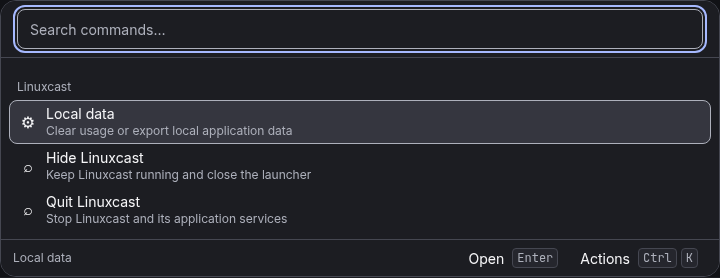
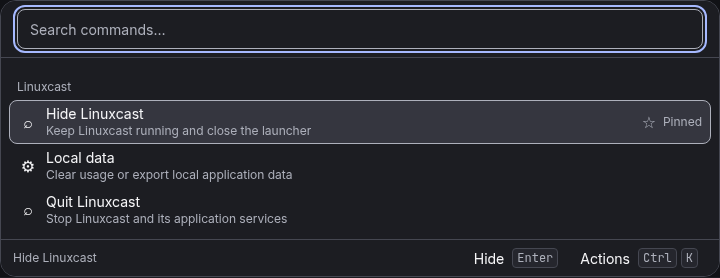
Verify durable launcher pin controls in the production application

diff --git a/apps/desktop/tests/shell.integration.test.ts b/apps/desktop/tests/shell.integration.test.ts
@@ -58,6 +58,18 @@ it('runs the bundled isolated shell, rejects renderer privileges and preserves r
   await expect.poll(()=>page.getByRole('heading',{name:'No matching results'}).isVisible()).toBe(true);
   await query.fill('');
   await expect.poll(()=>page.getByRole('option').count()).toBe(3);
+  // Pinning is an explicit metadata edit, not a command execution.
+  await query.press('ArrowDown');
+  await expect.poll(()=>page.getByRole('option',{selected:true}).textContent()).toContain('Hide Linuxcast');
+  await query.press('Control+k');
+  await page.getByRole('searchbox',{name:'Find an action'}).fill('Pin command');
+  await page.getByRole('searchbox',{name:'Find an action'}).press('Enter');
+  await expect.poll(()=>page.getByRole('option').first().textContent()).toContain('Hide Linuxcast');
+  await expect.poll(()=>page.getByRole('option',{selected:true}).textContent()).toContain('Hide Linuxcast');
+  await expect.poll(()=>page.evaluate(async()=>{
+    const reply=await (window as unknown as {linuxcast:DesktopShellApi}).linuxcast.getLauncherCommands();
+    return reply.ok?reply.value.commands.find(command=>command.id==='linuxcast:hide')?.usage:null;
+  })).toMatchObject({pinned:true,useCount:0,lastUsedAt:null});
   expect(await app.evaluate(({ app }) => app.getPath('userData'))).toBe(profile);
   expect(await page.evaluate(() => {
     const windowApi = window as unknown as { require?: unknown; process?: unknown; linuxcast?: DesktopShellApi };
@@ -112,12 +124,14 @@ it('runs the bundled isolated shell, rejects renderer privileges and preserves r
   expect(before).toMatchObject({encrypted:false,data:{category:'command-usage'}});
   expect(before.data.records).toContainEqual(expect.objectContaining({commandId:'builtin.public-fixture',useCount:1}));
   expect(before.data.records).toContainEqual(expect.objectContaining({commandId:'linuxcast:open-local-data',useCount:1}));
+  expect(before.data.records).toContainEqual(expect.objectContaining({commandId:'linuxcast:hide',pinned:true,useCount:0,lastUsedAt:null}));
   await app.evaluate(({dialog})=>{dialog.showMessageBox=async()=>({response:1,checkboxChecked:false});});
   await data.getByRole('button',{name:'Clear command usage'}).click();await expect.poll(()=>data.getByRole('status').textContent()).toBe('Data cleared.');
   const afterFile=join(temporary,'usage-after.json');await app.evaluate(({dialog},file)=>{dialog.showSaveDialog=async()=>({canceled:false,filePath:file});},afterFile);
   await data.getByRole('button',{name:'Export command usage'}).click();await expect.poll(()=>data.getByRole('status').textContent()).toBe('Export saved.');
   expect(JSON.parse(await readFile(afterFile,'utf8')).data.records).toContainEqual(expect.objectContaining({commandId:'builtin.public-fixture',useCount:0,lastUsedAt:null}));
   await data.getByRole('button',{name:'Export command usage'}).click();await expect.poll(()=>data.getByRole('status').textContent()).toBe('The data action could not be completed. Check the category before trying again.');
+  expect(JSON.parse(await readFile(afterFile,'utf8')).data.records).toContainEqual(expect.objectContaining({commandId:'linuxcast:hide',pinned:true,useCount:0,lastUsedAt:null}));
   expect(JSON.parse(await readFile(afterFile,'utf8')).data.records.every((record:{useCount:number})=>record.useCount===0)).toBe(true);
   await data.getByRole('button',{name:'Close settings'}).click();await expect.poll(()=>data.isClosed()).toBe(true);
   expect(await app.evaluate(({ app }) => app.getAppMetrics().filter(metric => metric.name === 'Linuxcast storage').length)).toBe(1);
@@ -202,4 +216,30 @@ it('runs the bundled isolated shell, rejects renderer privileges and preserves r
   await page.keyboard.press('Enter');
   expect(await exited).toBe(0);
   application = undefined;
+  // Relaunch the same real private profile: pins must be durable, not renderer state.
+  application=await electron.launch({executablePath:executable,args:[wrapper,'--show'],chromiumSandbox:true,env,timeout:20000});
+  const restarted=application,reopened=await restarted.firstWindow();await reopened.waitForURL(appUrl);
+  const reopenedQuery=reopened.getByRole('searchbox',{name:'Search commands',exact:true});
+  await reopenedQuery.waitFor();
+  await expect.poll(()=>reopened.getByRole('option').first().textContent()).toContain('Hide Linuxcast');
+  const savedUsage=await reopened.evaluate(async()=>{
+    const reply=await (window as unknown as {linuxcast:DesktopShellApi}).linuxcast.getLauncherCommands();
+    return reply.ok?reply.value.commands.find(command=>command.id==='linuxcast:hide')?.usage:null;
+  });
+  expect(savedUsage).toMatchObject({pinned:true,useCount:1});
+  await reopenedQuery.press('Control+k');
+  await reopened.getByRole('searchbox',{name:'Find an action'}).fill('Unpin command');
+  await reopened.getByRole('searchbox',{name:'Find an action'}).press('Enter');
+  await expect.poll(()=>reopened.evaluate(async()=>{
+    const reply=await (window as unknown as {linuxcast:DesktopShellApi}).linuxcast.getLauncherCommands();
+    return reply.ok?reply.value.commands.find(command=>command.id==='linuxcast:hide')?.usage:null;
+  })).toMatchObject({pinned:false,useCount:1});
+  await reopenedQuery.fill('quit');
+  await expect.poll(()=>reopened.getByRole('option',{selected:true}).textContent()).toContain('Quit Linuxcast');
+  const stopped=new Promise<number|null>(resolve=>restarted.process().once('exit',resolve));
+  await reopenedQuery.press('Enter',{noWaitAfter:true});expect(await stopped).toBe(0);application=undefined;
+  const persisted=await StorageOwner.open({dataDirectory:join(temporary,'data/linuxcast'),applicationBuild:'synthetic-pin-reopen'});
+  try {
+    expect(persisted.request({schemaVersion:1,requestId:randomUUID(),method:'commands.getUsage',params:{commandId:'linuxcast:hide'}}).result).toMatchObject({pinned:false,useCount:1});
+  } finally {await persisted.close();}
 }, 60000);

diff --git a/packages/storage/tests/command-pins.integration.test.ts b/packages/storage/tests/command-pins.integration.test.ts
@@ -4,6 +4,7 @@ import { tmpdir } from 'node:os';
 import { join } from 'node:path';
 import { randomUUID } from 'node:crypto';
 import Database from 'better-sqlite3';
+import { createStorageClient } from '../src/client.ts';
 import { StorageOwner } from '../src/owner.ts';
 const directories:string[]=[], owners:StorageOwner[]=[];
 afterEach(async()=>{for(const owner of owners.splice(0))await owner.close();for(const directory of directories.splice(0))await rm(directory,{recursive:true,force:true});});
@@ -39,4 +40,14 @@ describe('L1-01 atomic command pin persistence',()=>{
     for(const params of [{commandId:'linuxcast:hide',pinned:1},{commandId:'linuxcast:hide',pinned:'true'},{commandId:'../private',pinned:true},{commandId:'linuxcast:hide',pinned:true,useCount:900}])expect(()=>request(owner,'commands.setPinned',params)).toThrow();
     expect(request(owner,'commands.getUsage',{commandId:'linuxcast:hide'})).toBeNull();
   });
+});
+
+
+it.each([{commandId:'linuxcast:quit',pinned:true},{commandId:'linuxcast:hide',pinned:false}])('rejects mismatched pin acknowledgements without replay: %j',async result=>{
+  let receive:(value:unknown)=>void=()=>{};const sent:unknown[]=[];
+  const client=createStorageClient({send:value=>sent.push(value),onMessage:listener=>{receive=listener;return()=>{};}});
+  const pending=client.request('commands.setPinned',{commandId:'linuxcast:hide',pinned:true});
+  const envelope=sent[0] as {request:{requestId:string;method:string}};
+  receive({kind:'response',response:{schemaVersion:1,requestId:envelope.request.requestId,method:envelope.request.method,outcome:'completed',result:{...result,useCount:0,lastUsedAt:null,alias:null}}});
+  await expect(pending).rejects.toMatchObject({effectOutcome:'unknown',automaticReplay:false});expect(sent).toHaveLength(1);
 });

diff --git a/docs/implementation/tasks/L1-01.md b/docs/implementation/tasks/L1-01.md
@@ -50,6 +50,10 @@ Shared contracts, dependency manifests, lockfiles, migration numbering and task 
     Outcome: Empty-query, unavailable command, zeroed ranking and stale query/load cancellation fixtures pass. Actual owner export after UI clear proves useCount=0/lastUsedAt=null; pins/aliases remain preserved by existing owner semantics. No cancelled action is automatically replayed.
     Platform/backend: Pop!_OS/Ubuntu-based amd64 development host; Node24.22.1/Bun1.4.4, Electron45.0.0/SQLite3.53.4 private Xvfb; Chromium browser fixtures. No Debian/GNOME/KDE/Orca release claim.
     Reference: e8eb87c/5e61a3a/3f5b071; packages/search/tests/search.test.ts; apps/desktop/tests/shell.integration.test.ts
+  - Command/check: `bun run test:unit -- L1-01; bun run test:security -- L1-01; bun run test:integration -- L1-01; private-Xvfb bun run test:integration -- F1-02`.
+    Outcome: Pin/unpin uses acknowledged stored metadata, preserves selection/primary and usage/alias fields; empty-query favourites reorder after confirmation. Clearing usage retains pin. Full app restart and final owner reopen prove durable pin/unpin; failures/late replies do not replay, Reload remains available for unconfirmed edits.
+    Platform/backend: Pop!_OS/Ubuntu-based amd64 development host; Node24.22.1/Bun1.4.4; Electron45.0.0/SQLite3.53.4 private Xvfb. Chromium component fixtures; no Debian/GNOME/KDE/Orca release claim.
+    Reference: 13e9dac/0890391; packages/storage/tests/command-pins.integration.test.ts; apps/desktop/tests/shell.integration.test.ts; apps/desktop/src/features/launcher/tests/
 - [ ] **pending** `L1-01-UI` — Relevant design states and keyboard/accessibility paths are covered for user-facing changes.
   - Applies when: This task introduces or changes user-facing behaviour.
 - [x] **passed** `L1-01-PRIVACY` — No secrets/private content enter fixtures, diagnostics or screenshots.
@@ -74,9 +78,11 @@ Coordinator records the implementation PR/commit, check outcomes, desktop/backen
 - Started25October2026 after F2 PR25 integrated9fe8976. Isolated .worktrees/linuxcast-l1-01, branchcodex/l1-01-launcher-flow. Bounded first flow uses existing resident shell/storage/UI: real Local data/Hide/Quit registered commands, local query/ranking, stable keyboard selection and trusted execution. Coordinator owns shared contracts/manifests/main/preload/status. No acceptance inferred from assignment.
 - Bounded integrated candidate e8eb87c/5e61a3a/3f5b071: actual registered Local data/Hide/Quit, local bounded query/ranking, stable keyboard selection, trusted action execution and real SQLite-owner usage. 17unit/controller +9security +7browser UI checks pass; actual production Electron app flow passes4.20s. Query/arrows/Enter opens settings; actual exports prove usage recording, cancellation and clear/reset; Hide/secondtoggle preserves resident window; Quit exits0. Dark/light actual application screenshots inspected; same-page axe passes. Independent main/preload and UI reviews clear after held-Enter fix. Typecheck/lint/plan/diff pass. Full task remains in-progress.
 - Integrated25October2026 in PR26 https://github.com/ianwijma/linuxcast/pull/26, mergee303fcdc1ba2fa0b6b74b31eb4dadb48d5a5d7a4. Current-head19ac94f CI40187790232 passed; no requested GitHub reviews, review comments or unresolved threads at merge. Focused independent source reviews covered this implementation; normal merge with exact head match. Full task remains in-progress.
+- Next bounded application increment started25October2026 from merged PR26/e303fcd: command pin/unpin through existing launcher Actions and persistent usage, isolated author .worktrees/linuxcast-l1-01/codex/l1-01-command-pins; coordinator shared owner/API13e9dac. No new acceptance inferred. No research/proof expansion.
+- Bounded pin/unpin increment25October2026: trusted API/atomic sole-owner update13e9dac; author3a50c48 integrated0890391. 25unit/controller,12security,6pin persistence/protocol checks and11browser keyboard/axe cases pass;43storage regression cases pass. Actual production Electron45/SQLite3.53.4 private-Xvfb app passes4.81s: keyboard Pin on Hide reorders results without moving selected ID or primary, does not execute/count a run, survives usage clearing, Hide/secondtoggle and full Quit/relaunch; keyboard Unpin persists across final owner reopen with count unchanged. Actual app dark/light screenshots inspected. Typecheck/lint/plan/diff pass. Independent owner/API and UI reviews clear after retaining Reload through an unconfirmed pin followed by successful primary action. No full L1/native/release completion claim.
 
 ## Outstanding limitations
 
-- Full L1-01 scope remains required: remaining search providers, explicit configured fallback/AI actions, command visibility and ranking/alias administration are not implemented by this first three-command increment.
+- Full L1-01 scope remains required: remaining search providers, explicit configured fallback/AI actions, command visibility/alias administration and remaining ranking controls are not implemented by the current three-command increment. Persistent pin/unpin and category usage reset are implemented.
 - Existing shell/storage are integrated. Reviewed D1-02 source is being paired with this application flow; native assistive-technology/prerequisite acceptance remains pending. Neither dependent task nor full L1-01 can be marked complete from browser or private-Xvfb checks alone.
 - Actual4.20s private-Xvfb application flow and seven browser/axe cases passed. GNOME/KDE Wayland/X11, native assistive technology and full UI/release matrix remain pending; native dialog choices in the Local data regression were instrumented.

diff --git a/docs/implementation/PROGRESS.md b/docs/implementation/PROGRESS.md
@@ -36,7 +36,15 @@ Validation:17L1 unit/controller +9launcher security +7L1 browser checks pass. Re
 
 Current user sequencing is complete: F2 bounded increment merged first; manifest_review was then redirected to actual launcher application code, which is now also merged. Both author and reviewer agents finished; none has another infrastructure/proof assignment.
 
-Selected next L1-01 product increment: expose command pin/unpin through existing Actions and SQLite command usage so users can control empty-query ordering. Keep this separate and small; root owns exact typed main/preload and atomic storage update, then manifest_review can own only lane-local Actions/controller UI in an isolated branch. Do not start new desktop proofs or broaden this into a generic preferences framework. Actual persistence/reopen and stable-selection evidence required before merge. The broader search providers, aliases/visibility administration and configured fallbacks remain required future increments. No acceptance gate or full local1.0 scope is removed. F2 remaining credential/diagnostics UI is backlog, not assigned back to manifest_review.
+## Current L1-01 pin increment
+
+Coordinator `.worktrees/linuxcast-application-controls` / `codex/launcher-follow-up`, basee303fcd. Shared actual persistence/API13e9dac; author3a50c48 integrated0890391. UI uses existing Actions and visible Pinned accessory; original primary and selected identity survive reordering. Main validates exact sender/frame/revision/ID/boolean, serializes effects, and returns acknowledged metadata. Owner atomically changes only pinned, preserves usage/alias and never executes/records use. No migration, dependency or new framework. Unconfirmed pin changes require explicit Reload, including after another successful command.
+
+Validation:25L1 units/controller,12security,6pin checks (4actual owner+2malformed-ack protocol),11browser cases and43storage regression cases pass. Actual production Electron45/SQLite3.53.4 private-Xvfb app passes4.81s: keyboard Pin reorders while preserving selection/primary and useCount0; usage clear retains pin; Hide/secondtoggle/Quit/relaunch preserves favourite; keyboard Unpin persists through final owner reopen with count unchanged. Actual dark/light app screenshots inspected; component affected-state screenshots/axe checked. Typecheck/lint/plan/diff pass. Initial sandbox-limited owner run failed before DB open because local abstract sockets were denied; permitted actual-owner rerun passed. No desktop/Orca/release claim.
+
+Independent owner/API reviewer launcher_reading clean; UI reviewer reading_review clean after one focused recovery fix/regression. manifest_review source is committed and has no process active, same `.worktrees/linuxcast-l1-01` / `codex/l1-01-command-pins`. No F2 infrastructure/research/proof or VM/device work assigned.
+
+Next: publish focused pin PR, inspect current-head CI/reviews/comments, merge normally and refresh develop. Then prioritize the actual installed-application catalogue/launch flow (L1-02) using native GIO plus the existing launcher/storage/UI, with a small typed interface and explicit unavailable states. Keep provider/alias/visibility/fallback and nativeAT/desktop/release gaps recorded. Complete local1.0 scope remains unchanged; no whole L1 or dependent-task completion inferred.
 
 ## Retained proof state
 

diff --git a/apps/desktop/README.md b/apps/desktop/README.md
@@ -23,6 +23,8 @@ the launched application. Debian package installation remains F1-03 work.
 
 The launcher searches three trusted registered commands: Local data, Hide Linuxcast and Quit Linuxcast. Exact aliases, local title/keyword matching, saved usage and stable keyboard selection are implemented. Enter executes the selected action; Ctrl+K opens actions; Escape closes actions before dismissing the launcher. Queries remain local and never enter IPC. No other provider or unavailable system action is simulated.
 
+Actions also exposes Pin command/Unpin command for the selected result. Pinning is saved through the sole SQLite owner without executing the command or increasing usage. A visible Pinned label identifies saved favourites; empty-query ordering respects them while preserving selection. An unconfirmed save requires Reload commands before another pin change; it is never replayed automatically.
+
 Hide and Escape dismiss it while services remain resident.
 A second invocation toggles the existing window. `--show`, `--toggle`, `--quit`,
 and exact `linuxcast://launcher/show` / `linuxcast://launcher/toggle` links are
